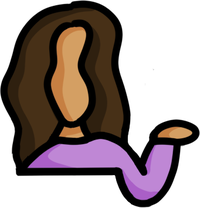
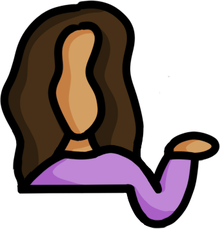
Use the exported Figma artwork; second CTA opens the tray tracker
The landing page now renders hero_composed.png — the captain with both
speech bubbles already positioned in Figma — as a single image. That
deletes every line of bubble-placement CSS I had written, and the pixel
tails are the real artwork rather than my approximation of them. Trying to
rebuild that composition in CSS was the wrong call from the start.

The perch poses use the newly exported tight crops, so the image's bottom
edge is her feet and planting her on the prompt bar is exact rather than
inferred from a bounding box full of transparent margin.

The second pill is now "Track what I ate", which opens the tray tracker.
The mock's "Want to know macros?" had no honest behaviour behind it —
macros are already shown per dish — whereas totalling is meaningful in the
tracker, where you tick your own plate rather than summing a whole buffet.

Pills are 28px against a bar that oscillates between 43 and 63px tall with
focus, and are anchored off its bottom edge, which is the stable one.
Verified at 1512px: both sit inside the bar, and a click at the pill centre
lands on the pill.

diff --git a/tools/prepare_sprites.py b/tools/prepare_sprites.py
@@ -1,11 +1,15 @@
 """
-Crop the exported avatar sprites to a shared frame.
+Prepare the Figma exports for the app.
 
-The Figma exports are 1620x2160 with the character occupying a small region in
-the middle, so rendering them as-is makes her tiny and surrounds her with a
-large transparent box that swallows clicks. Every sprite is cropped to the SAME
-rectangle so her position stays fixed when the app swaps states — crop each one
-to its own bounding box and she would jump around between poses.
+Two kinds of asset:
+
+  hero_composed.png  — the whole landing state as one graphic: the captain
+                       with both speech bubbles already positioned. The app
+                       renders this single file, so there is no bubble
+                       placement to get wrong.
+  avatar_*.png       — the perch poses. Each is cropped to its own pixels so
+                       the image's bottom edge is her feet, which is what lets
+                       the app plant her on the prompt bar exactly.
 
 Re-run after re-exporting art:
     source .venv/bin/activate && python3 tools/prepare_sprites.py
@@ -18,55 +22,39 @@ from PIL import Image
 SOURCE = Path(__file__).resolve().parent.parent / "assets"
 DEST = SOURCE / "derived"
 
-# Shared crop box (left, upper, right, lower) in the 1620x2160 export space.
-# Every perch pose uses this SAME box so she doesn't jump position when the
-# app swaps states; it's sized to contain the widest pose plus the lightbulb
-# glow of the "answering" sprite.
-CROP = (500, 330, 1400, 1700)
-
-TARGET_WIDTH = 420  # what the app actually renders at
-
-# The hero pose is cropped tight to her body instead. The shared box leaves
-# ~180px of transparent margin beside her, and the landing page anchors the
-# speech bubbles to the image's edges — with the loose box they end up a
-# quarter of the screen away from her head. Only the idle pose needs this,
-# because the hero never swaps states.
-HERO_SOURCE = "avatar_idle.png"
-HERO_PAD = 18
+HERO_WIDTH = 900          # rendered smaller; this is for retina headroom
+PERCH_BOX = (220, 300)    # max width, max height — aspect preserved
 
 
-def _save(image, crop, width, out):
-    cropped = image.crop(crop)
-    ratio = width / cropped.width
-    resized = cropped.resize((width, int(cropped.height * ratio)), Image.LANCZOS)
-    resized.save(out, optimize=True)
-    return resized.size
+def _fit(image, box):
+    width, height = image.size
+    scale = min(box[0] / width, box[1] / height, 1.0)
+    if scale >= 1.0:
+        return image
+    return image.resize((max(1, int(width * scale)), max(1, int(height * scale))),
+                        Image.LANCZOS)
 
 
 def main():
     DEST.mkdir(exist_ok=True)
+
+    hero_src = SOURCE / "hero_composed.png"
+    if hero_src.exists():
+        hero = Image.open(hero_src).convert("RGBA")
+        hero = hero.crop(hero.getbbox())
+        ratio = HERO_WIDTH / hero.width
+        hero = hero.resize((HERO_WIDTH, int(hero.height * ratio)), Image.LANCZOS)
+        hero.save(DEST / "hero_composed.png", optimize=True)
+        print(f"{'hero_composed':34s} -> derived/hero_composed.png  {hero.size}")
+
     for path in sorted(SOURCE.glob("avatar_*.png")):
         image = Image.open(path).convert("RGBA")
-        size = _save(image, CROP, TARGET_WIDTH, DEST / path.name)
-        print(f"{path.name:34s} -> derived/{path.name}  {size}")
-
-    hero = Image.open(SOURCE / HERO_SOURCE).convert("RGBA")
-    bbox = hero.getbbox()
-    tight = (bbox[0] - HERO_PAD, bbox[1] - HERO_PAD,
-             bbox[2] + HERO_PAD, bbox[3] + HERO_PAD)
-    size = _save(hero, tight, 320, DEST / "hero_idle.png")
-    print(f"{'hero (tight crop)':34s} -> derived/hero_idle.png  {size}")
-
-    # Perch poses, each cropped tight to its OWN pixels. The shared box left
-    # up to 180px of invisible margin, which is why she kept landing away
-    # from the prompt bar instead of on it: the app was positioning the
-    # bounding box, not the character. Cropped tight, the image's bottom edge
-    # IS her feet, so planting her on the bar is exact.
-    for path in sorted(SOURCE.glob("avatar_*.png")):
-        image = Image.open(path).convert("RGBA")
-        box = image.getbbox()
-        size = _save(image, box, 200, DEST / f"perch_{path.name}")
-        print(f"{'perch ' + path.stem:34s} -> derived/perch_{path.name}  {size}")
+        # No-op for the already-tight exports; trims the older full-canvas ones.
+        image = image.crop(image.getbbox())
+        image = _fit(image, PERCH_BOX)
+        out = DEST / f"perch_{path.name}"
+        image.save(out, optimize=True)
+        print(f"{'perch ' + path.stem:34s} -> {out.name}  {image.size}")
 
 
 if __name__ == "__main__":

diff --git a/ui.py b/ui.py
@@ -131,55 +131,16 @@ def inject_theme() -> None:
 .bc-mark em {{ color: {LILAC}; font-style: normal; }}
 
 /* ---------------- landing hero ----------------
-   The bubbles are positioned against the FIGURE, not the page, so they stay
-   tucked either side of her head at any window width instead of drifting to
-   the far edges. */
+   One exported graphic: the captain with both speech bubbles already set in
+   Figma. Nothing to position, and the pixel tails are the real artwork
+   rather than a CSS approximation of them. */
 .bc-hero {{
   display: flex; justify-content: center; align-items: flex-end;
-  min-height: 62vh; margin-top: .5rem;
+  min-height: 60vh; margin-top: .5rem;
 }}
-.bc-hero-figure {{ position: relative; flex: 0 0 auto; }}
 .bc-hero img {{
-  height: 58vh; max-height: 560px; min-height: 260px;
+  max-height: 62vh; max-width: 100%;
   display: block; pointer-events: none;
-}}
-.bc-say {{
-  position: absolute; width: 12.5rem;
-  font-family: 'Pixelify Sans', monospace;
-  font-size: .8rem; line-height: 1.45; text-align: center;
-  color: #16141f; background: #e9e9e9;
-  padding: .75rem .8rem;
-  border: 3px solid #14121c;
-  box-shadow: 6px 6px 0 rgba(0,0,0,.5);
-}}
-/* Anchored to the tight hero crop, so these land beside her head: a small
-   gap on the left, a slight overlap on the right, as drawn. */
-.bc-say-l {{ right: 100%; margin-right: 26px; top: 19%; }}
-.bc-say-r {{ left: 100%;  margin-left: -30px;  top: 11%; }}
-
-/* Two-step staircase, so the tail reads as pixel art rather than a smooth
-   triangle. bubble.png's own tail can't be used here: border-image repeats
-   it along the whole edge. */
-.bc-say::before, .bc-say::after {{
-  content: ""; position: absolute; background: #e9e9e9;
-}}
-.bc-say::before {{
-  bottom: -11px; width: 22px; height: 11px;
-  border-left: 3px solid #14121c; border-right: 3px solid #14121c;
-}}
-.bc-say::after {{
-  bottom: -21px; width: 11px; height: 11px;
-  border: 3px solid #14121c; border-top: none;
-}}
-.bc-say-l::before {{ right: 26px; }}
-.bc-say-l::after  {{ right: 26px; }}
-.bc-say-r::before {{ left: 26px; }}
-.bc-say-r::after  {{ left: 37px; }}
-
-@media (max-width: 900px) {{
-  .bc-say {{ width: 9.5rem; font-size: .72rem; }}
-  .bc-say-l {{ margin-right: -.6rem; }}
-  .bc-say-r {{ margin-left: -.6rem; }}
 }}
 
 /* ---------------- answer bubble ---------------- */
@@ -236,7 +197,9 @@ def inject_theme() -> None:
    class name, because those are emotion hashes that change every release. */
 [data-testid="stVerticalBlock"]:has(> [data-testid="stElementContainer"] .bc-cta-anchor) {{
   position: fixed; left: 50%; transform: translateX(-50%);
-  bottom: 25px; z-index: 120;          /* centres the pills in the bar */
+  /* Anchored off the bar's BOTTOM edge, which is stable — its top moves as
+     the input grows and shrinks with focus. */
+  bottom: 32px; z-index: 120;
   width: 1290px; max-width: 94vw;
   padding-left: 8.4rem;                /* clears the "+" and its divider */
   pointer-events: none;
@@ -254,8 +217,10 @@ def inject_theme() -> None:
   border-radius: 999px;
   color: #CDB8FF;
   font-family: 'Pixelify Sans', monospace;
-  font-size: .82rem;
-  padding: .18rem .9rem;
+  font-size: .78rem;
+  /* Deliberately shorter than the bar so it reads as sitting inside it. */
+  height: 28px; min-height: 28px; line-height: 1;
+  padding: 0 .85rem;
   white-space: nowrap;
   overflow: hidden; text-overflow: ellipsis;
 }}
@@ -281,23 +246,13 @@ def wordmark() -> None:
                 unsafe_allow_html=True)
 
 
-def hero(left_line: str, right_line: str) -> None:
-    """Landing state: the captain large, with the value proposition either side."""
-    src = _sprite("hero_idle.png") or _sprite(AVATAR["idle"])
+def hero() -> None:
+    """Landing state: the composed graphic, exactly as exported from Figma."""
+    src = _sprite("hero_composed.png")
     if not src:
         return
-    st.markdown(
-        f"""
-<div class="bc-hero">
-  <div class="bc-hero-figure">
-    <div class="bc-say bc-say-l">{left_line}</div>
-    <div class="bc-say bc-say-r">{right_line}</div>
-    <img src="{src}"/>
-  </div>
-</div>
-""",
-        unsafe_allow_html=True,
-    )
+    st.markdown(f'<div class="bc-hero"><img src="{src}"/></div>',
+                unsafe_allow_html=True)
 
 
 def perch(state: str, pose_index: int = 0) -> None:

diff --git a/app.py b/app.py
@@ -46,10 +46,6 @@ TAGLINES = [
     "What's for lunch tomorrow?",
 ]
 
-HERO_LEFT = "Upload images of your meal to get exact macro counts!"
-HERO_RIGHT = "Ask what's for lunch and track what you actually ate..."
-
-
 @st.cache_data(ttl=1800, show_spinner="Reading this week's menu photo...")
 def get_menu():
     return menu_data.load_menu()
@@ -68,6 +64,7 @@ def get_detected_items(photo_bytes: bytes, candidate_items: tuple):
 
 st.session_state.setdefault("messages", [])
 st.session_state.setdefault("tray_photo", None)
+st.session_state.setdefault("show_tray", False)
 st.session_state.setdefault("pose", 0)
 st.session_state.setdefault("tagline", random.choice(TAGLINES))
 
@@ -93,11 +90,13 @@ elif menu_source == "cache":
             "just now.")
 
 pending = st.session_state.pop("pending_prompt", None)
-has_conversation = bool(st.session_state.messages) or st.session_state.tray_photo
+has_conversation = (bool(st.session_state.messages)
+                    or st.session_state.tray_photo is not None
+                    or st.session_state.show_tray)
 
 # ------------------------------------------------------------ landing state
 if not has_conversation:
-    ui.hero(HERO_LEFT, HERO_RIGHT)
+    ui.hero()
 
 # -------------------------------------------------------------- transcript
 for index, message in enumerate(st.session_state.messages):
@@ -108,6 +107,14 @@ for index, message in enumerate(st.session_state.messages):
     ui.answer_bubble(message.get("html") or message["content"])
 
 # ------------------------------------------------------------ tray tracker
+if st.session_state.show_tray and st.session_state.tray_photo is None:
+    st.caption("Snap or upload your tray — hit **+** in the bar below, or use "
+               "the camera.")
+    snap = st.camera_input("Photograph your tray", label_visibility="collapsed")
+    if snap is not None:
+        st.session_state.tray_photo = snap.getvalue()
+        st.rerun()
+
 tray_photo = st.session_state.tray_photo
 if tray_photo is not None:
     today = datetime.now().strftime("%A")
@@ -137,6 +144,7 @@ if tray_photo is not None:
                 st.caption("No estimate yet for: " + ", ".join(unmatched))
         if st.button("Clear tray"):
             st.session_state.tray_photo = None
+            st.session_state.show_tray = False
             st.rerun()
 
 # ------------------------------------------- follow-up pills in the prompt bar
@@ -152,7 +160,10 @@ if options:
         columns = st.columns([3] * len(options) + [14])
         for position, option in enumerate(options):
             if columns[position].button(option["label"], key=f"cta_{position}"):
-                st.session_state.pending_prompt = option["prompt"]
+                if option.get("action") == "tray":
+                    st.session_state.show_tray = True
+                else:
+                    st.session_state.pending_prompt = option["prompt"]
                 st.rerun()
 
 # ------------------------------------------------- captain on the prompt bar

diff --git a/query.py b/query.py
@@ -200,12 +200,16 @@ def answer(user_text: str, menu: dict, now: datetime = None) -> dict:
     return {
         "reply": "\n\n".join(parts),
         "reply_html": "".join(html),
-        # Rendered as pills inside the prompt bar. Each is a real query the
-        # app can answer, so none of them is a dead end.
-        "follow_up_options": [
-            {"label": f"What's for {m.lower()}?", "prompt": f"what's for {m.lower()}"}
-            for m in follow_ups
-        ],
+        # Rendered as pills inside the prompt bar. Each is a real action the
+        # app can carry out, so none of them is a dead end. The first is the
+        # next meal that actually has data; the second opens the tray tracker,
+        # which is where totalling macros is meaningful (you tick your own
+        # plate) rather than summing a whole buffet.
+        "follow_up_options": (
+            [{"label": f"What's for {m.lower()}?",
+              "prompt": f"what's for {m.lower()}"} for m in follow_ups[:1]]
+            + [{"label": "Track what I ate", "action": "tray"}]
+        ),
         "meal_type": meal_type,
         "follow_up": follow_up,
         "follow_up_label": f"What's for {follow_up.lower()}?" if follow_up else None,
